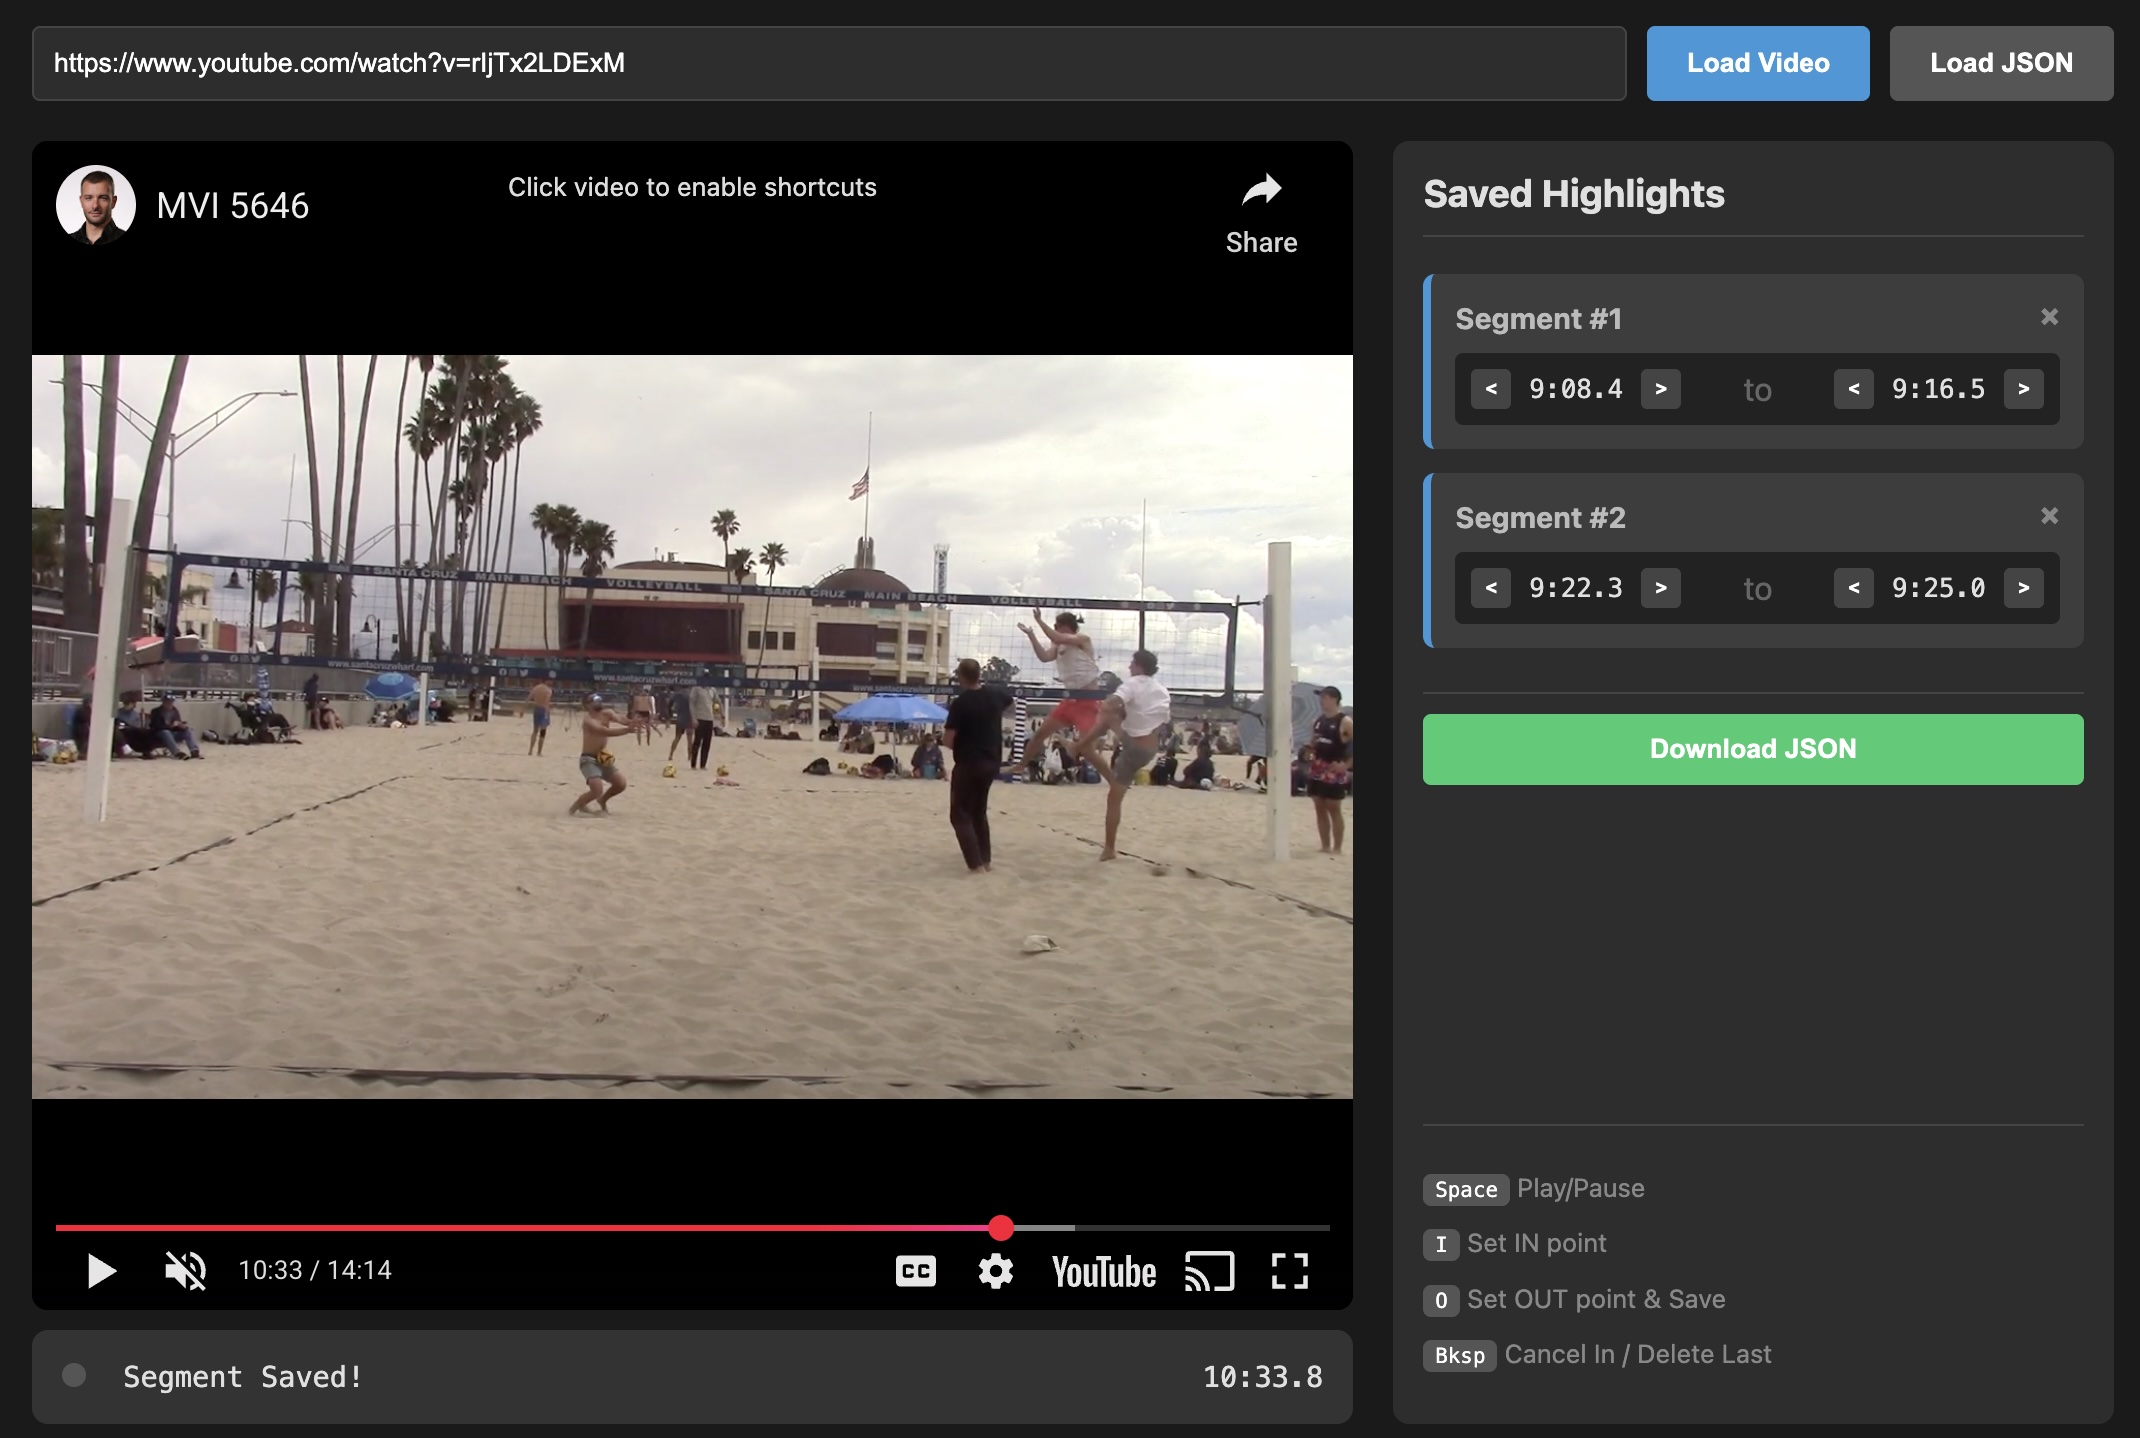
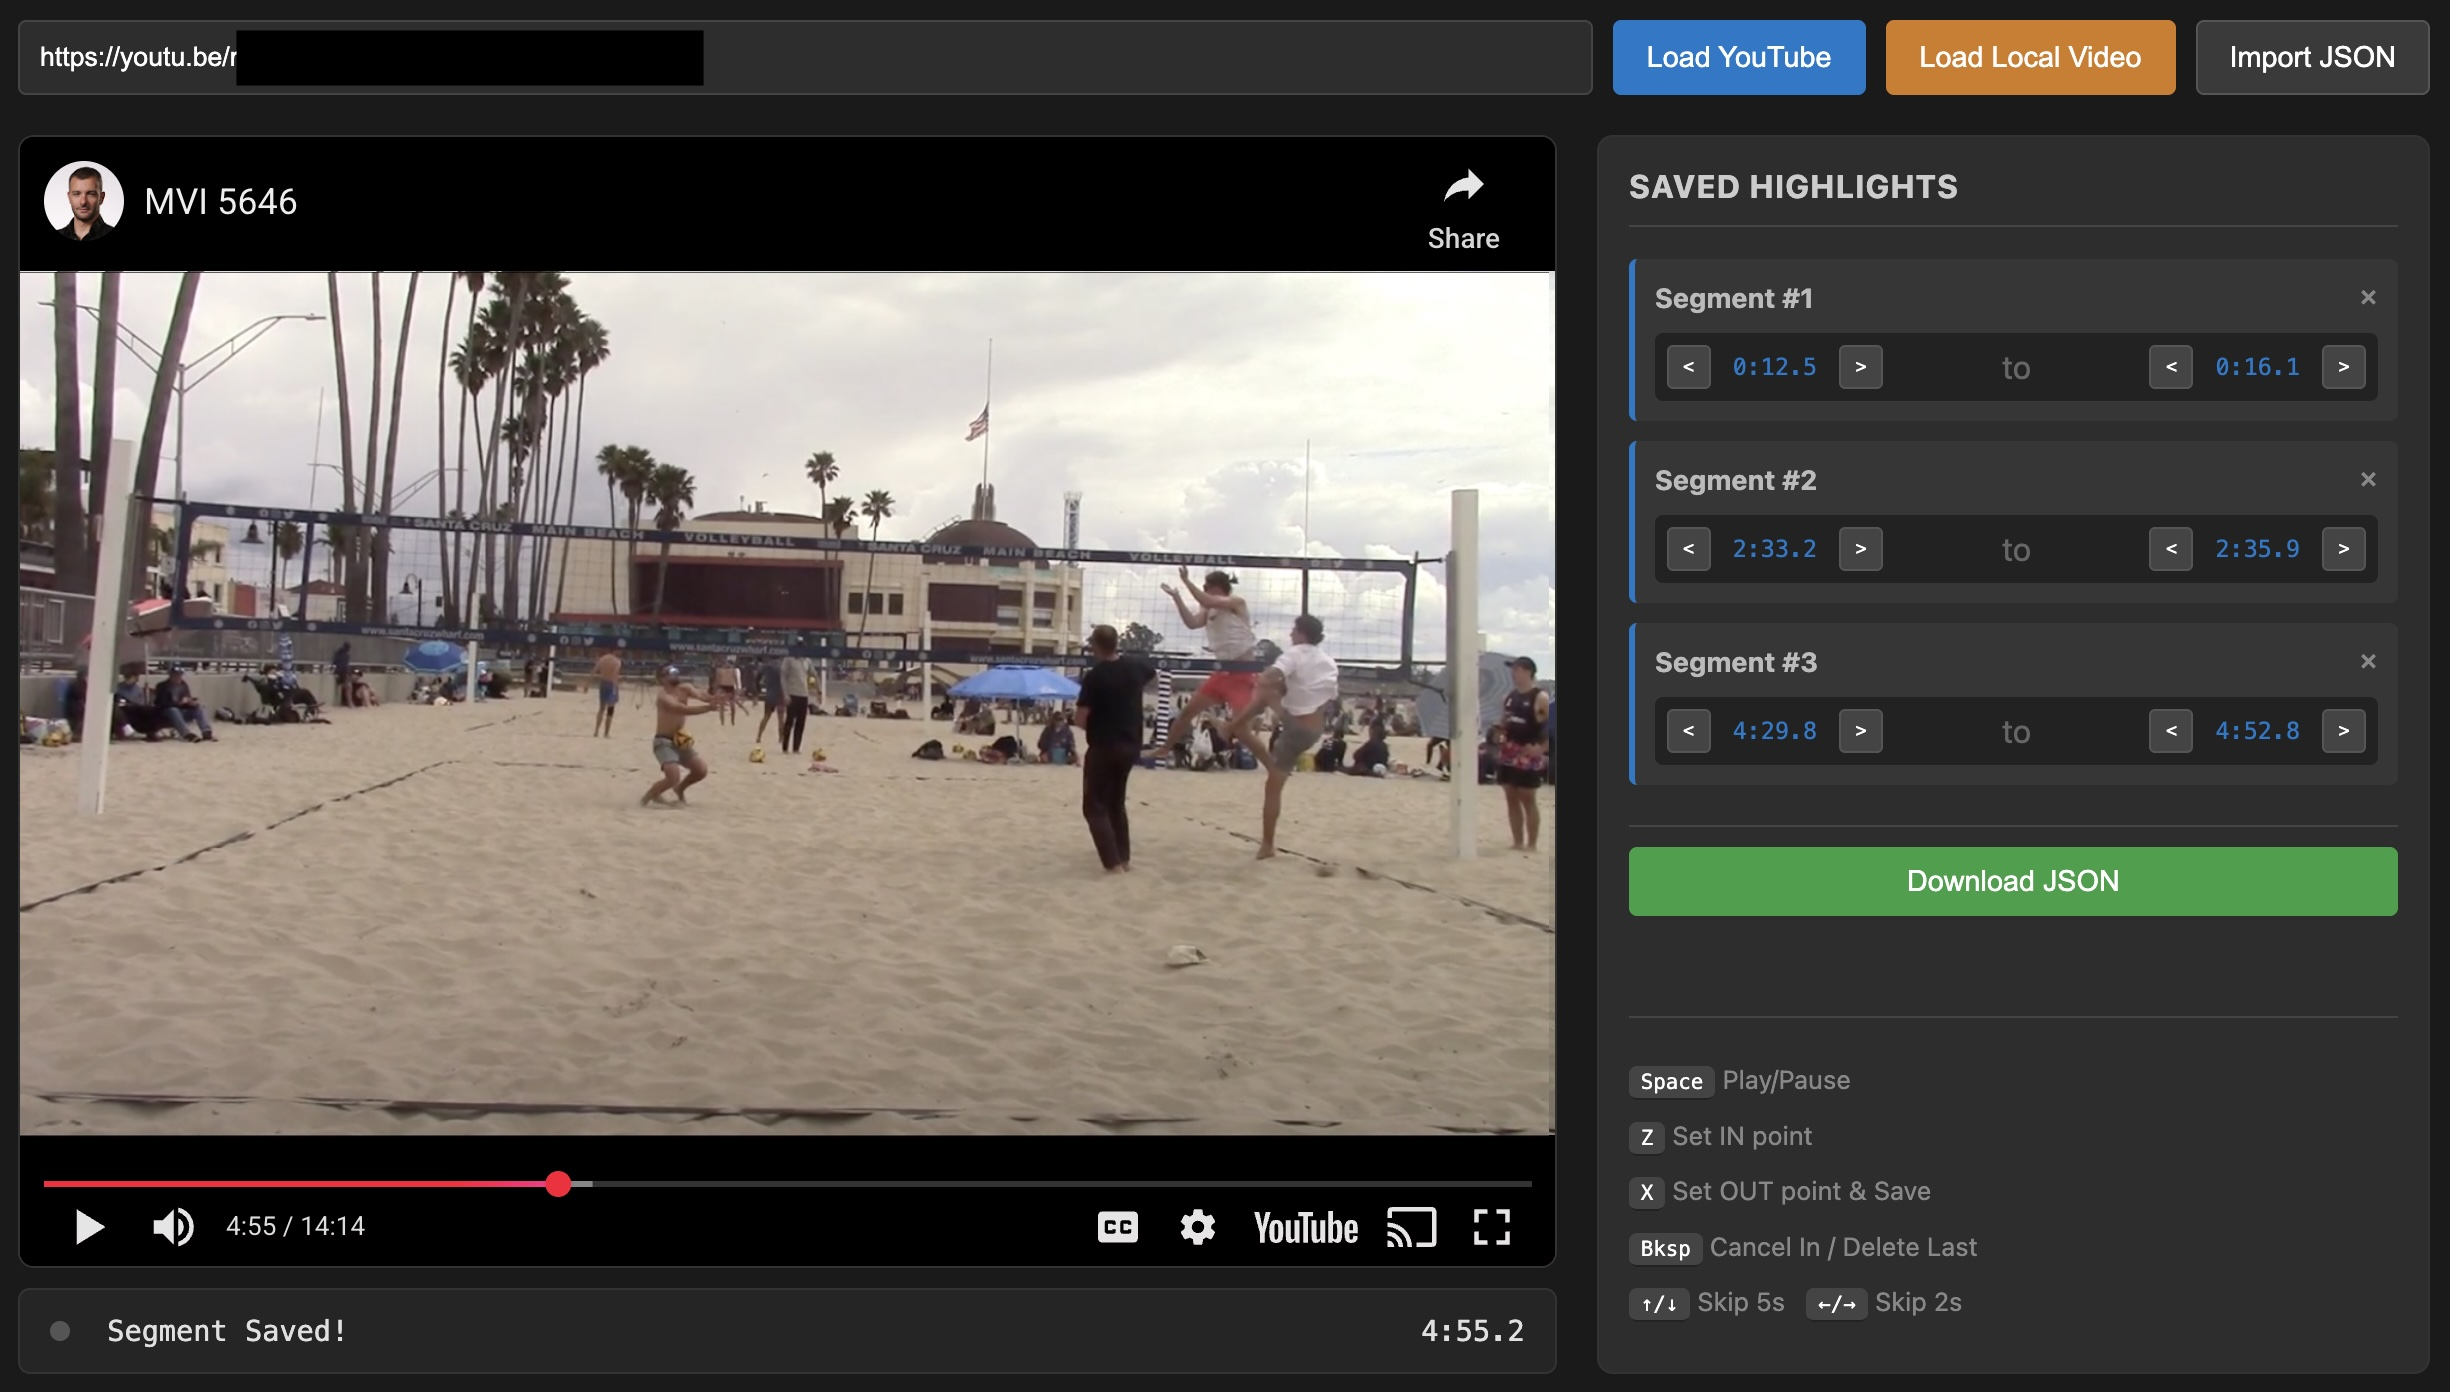
Updated README

diff --git a/README.md b/README.md
@@ -1,6 +1,6 @@
 # YouTube Highlight Creator
 
-A simple, efficient tool to create highlight reels from YouTube videos.
+A simple tool to create highlight reels from YouTube or local videos.
 
 This project consists of two parts:
 1. **Web Editor (`video-editor.html`):** A browser-based interface to select segments of interest in YouTube videos. It allows to mark and adjust "In" and "Out" points, and export the timestamps as JSON.
@@ -13,7 +13,7 @@ This project consists of two parts:
 The process is designed to be fast and non-destructive.
 
 1.  **Open the Editor:** Launch `video-editor.html` in your browser.
-2.  **Mark Segments:** Load a YouTube URL. Use keyboard shortcuts to mark the start (`I`) and end (`O`) of plays/actions.
+2.  **Mark Segments:** Load a YouTube URL or a local video. Use keyboard shortcuts to mark the start (`Z`) and end (`X`) of plays/actions.
 3.  **Refine:** Use the on-screen "Nudge" buttons to adjust the timing by 0.5s if you missed the exact frame.
 4.  **Export:** Click "Download JSON" to save your work.
 5.  **Process:** Point the Python script at the folder containing your JSON files. It will automatically download and stitch the video.
@@ -45,16 +45,17 @@ Then open `http://localhost:8000/video-editor.html` in your browser.
 | Key | Action |
 | :--- | :--- |
 | **Space** | Play / Pause |
-| **I** | Mark **IN** point (Start of highlight) |
-| **O** | Mark **OUT** point (End of highlight) |
+| **Z** | Mark **IN** point (Start of highlight) |
+| **X** | Mark **OUT** point (End of highlight) |
 | **Backspace** | Cancel current recording OR Delete last saved clip |
-| **Left / Right Arrow** | Seek backward/forward 5 seconds |
+| **Left / Right Arrow** | Seek backward/forward 2 seconds |
+| **UP / Down Arrow** | Seek backward/forward 5 seconds |
 
 ## 🎞 Generating the Video
 
 Once you have one or more JSON files exported from the web tool:
 
-1.  Place your JSON files in a folder (e.g., `Season_Highlights`).
+1.  Place your JSON files in a folder (e.g., `Season_Highlights`). If some of the videos are local videos, they need to be in the same folder as the JSON file.
 2.  Run the script pointing to that folder:
 
 ```bash
